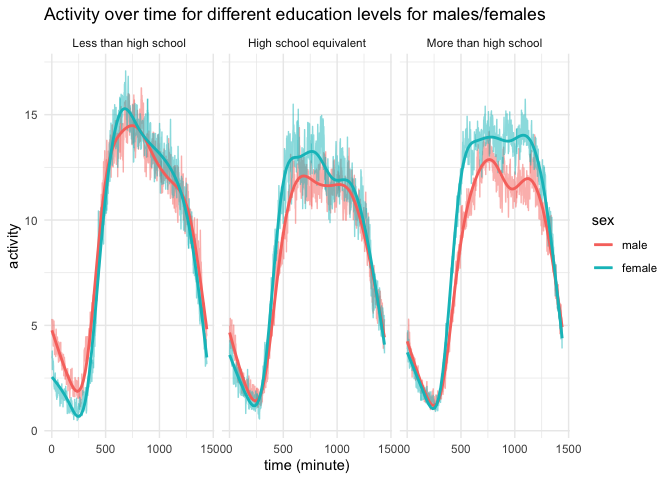
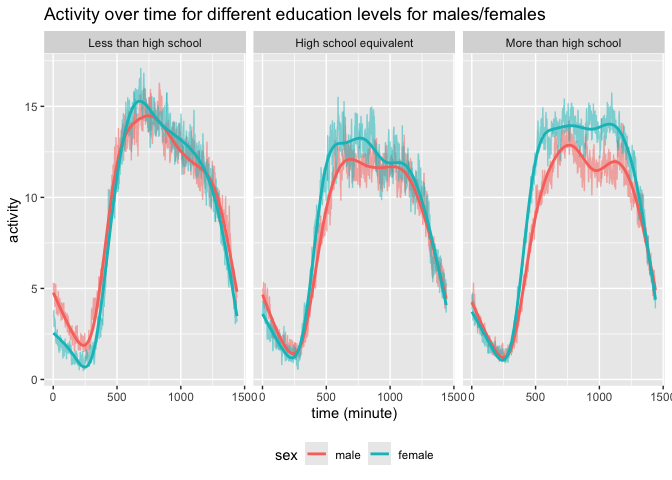
partial problem 2 + problem3

diff --git a/p8105_hw3_jl6521.md b/p8105_hw3_jl6521.md
@@ -5,6 +5,8 @@ Jiayi
 
 ## Problem 1
 
+1.  data cleaning
+
 ``` r
 data("ny_noaa")
 size = nrow(ny_noaa)
@@ -18,8 +20,11 @@ weather stations around the world with 7 daily variables. They are ids,
 maximum and minimum temperature, total daily precipitation, snowfall,
 and snow depth.
 
-\*and indicating the extent to which missing data is an issue. \##
-Problem 2
+\*and indicating the extent to which missing data is an issue.
+
+## Problem 2
+
+1.  Table cleaning and binding
 
 ``` r
 acc_data = read_csv("./data/nhanes_accel.csv",
@@ -67,6 +72,9 @@ merged_mims = inner_join(demo_data,acc_data, by = "seqn") %>%
                     "More than high school")))
 ```
 
+2.  Table for education and number of men and women in each education
+    category
+
 ``` r
 education_table = merged_mims %>% 
   group_by(education,sex) %>% 
@@ -94,9 +102,11 @@ education_table %>%
 
 Number of Men and Women by Education Category
 
+3.  Age distribution visualization
+
 ``` r
-education_visualization = ggplot(merged_mims,aes(x= education, y = age, color = sex)) + 
-  geom_boxplot(alpha = 0.5) + 
+education_visualization = ggplot(merged_mims,aes(x= education, y = age, fill = sex)) + 
+  geom_boxplot() + 
   labs(
     title = "Age Distribution by Education and Sex",
     x = "Education Level",
@@ -107,13 +117,16 @@ education_visualization = ggplot(merged_mims,aes(x= education, y = age, color = 
 print(education_visualization)
 ```
 
-![](p8105_hw3_jl6521_files/figure-gfm/table%20+%20visualization-1.png)<!-- -->
+![](p8105_hw3_jl6521_files/figure-gfm/age%20visualization-1.png)<!-- -->
+
 Comment: From the plot, we can see that the age of the people with more
 than high school degree is usually lower than the other two education
 levels. The age of males and females are similar for both less than high
 school group and more than high school group, but not the high school
 equivalent group. In the high school equivalent group, the age of
 females is higher htan the males.
+
+4.  Total activity against age for education levels
 
 ``` r
 agg_data =
@@ -140,18 +153,19 @@ print(agg_visualization)
     ## `geom_smooth()` using method = 'loess' and formula = 'y ~ x'
 
 ![](p8105_hw3_jl6521_files/figure-gfm/aggregate%20activity-1.png)<!-- -->
-Comment: \* For the less than high school group, the total activity of
+Comment: For the less than high school group, the total activity of
 males and females decrease as age increase, except for a peak around age
 60 when the total activities of two group increase from 45 to 60. Before
 40 years old, the total activity of females are larger than of males,
 but after 40 years old, total activities for males are larger than
-females. \* For the high school equivalent group, the total activity
+females. For the high school equivalent group, the total activity
 increase at first when age is small and then decreases as females and
 male get older. For females, there’s an small increase again at later
 age but not for males. Generally females have higher total activity than
-males except for the initial time. \* For the more than high school
-group, the total activity of females is larger than the males all the
-time.
+males except for the initial time. For the more than high school group,
+the total activity of females is larger than the males all the time.
+
+5.  Three-panels plot for time courses for each education level
 
 ``` r
 time_plot = merged_mims %>% 
@@ -161,7 +175,7 @@ time_plot = merged_mims %>%
     values_to = "activity"
   ) %>% 
   group_by(education, sex, time) %>% 
-  summarize(mean_activity = mean(activity, na.rm = TRUE)) %>%
+  summarize(mean_activity = mean(activity, na.rm = TRUE),.groups = 'drop') %>%
   mutate(time = as.numeric(gsub("min", "", time))) %>%
   ggplot(aes(x=time,y=mean_activity,color = sex))+
   geom_line(alpha = 0.5) +
@@ -172,40 +186,71 @@ time_plot = merged_mims %>%
     x = "time (minute)",
     y = "activity"
   ) +
-  theme_minimal()
-```
-
-    ## `summarise()` has grouped output by 'education', 'sex'. You can override using
-    ## the `.groups` argument.
-
-``` r
+  theme(legend.position = "bottom")
 print(time_plot)
 ```
 
     ## `geom_smooth()` using method = 'gam' and formula = 'y ~ s(x, bs = "cs")'
 
 ![](p8105_hw3_jl6521_files/figure-gfm/unnamed-chunk-1-1.png)<!-- -->
+Comment: Three panel graphs have similar trends overall where they all
+decrease at first and then increase starting from 250 minutes (around
+4am). For the group with less than high school education, people’s
+average activity peaks at similar time (750 min) for both females and
+males.
+
+For the group with high school equivalent degree, most of the time, the
+mean time of activity of females are larger than males. For males, the
+time plot is relatively stable then females over the period of 750 min
+to 1125 min.
+
+For the group with more than high school degree, females have higher and
+more stable activity during the 500 min to 1125 min while males activity
+plot fluctuates a lot during that time.
 
 ## Problem 3
+
+1.  Data import and cleaning
 
 ``` r
 jan20 = read_csv("./data/citibike/Jan 2020 Citi.csv",
                     na = c("NA", ".", ""), show_col_types = FALSE)%>% 
-  janitor::clean_names()
+  janitor::clean_names() %>% 
+  mutate(
+    month = "Janurary",
+    year = "2020"
+  )
 jan24 = read_csv("./data/citibike/Jan 2024 Citi.csv",
                     na = c("NA", ".", ""),show_col_types = FALSE)%>% 
-  janitor::clean_names()
+  janitor::clean_names() %>% 
+  mutate(
+    month = "Janurary",
+    year = "2024"
+  )
 july20 = read_csv("./data/citibike/July 2020 Citi.csv",
                     na = c("NA", ".", ""),show_col_types = FALSE)%>% 
-  janitor::clean_names()
+  janitor::clean_names()%>% 
+  mutate(
+    month = "July",
+    year = "2020"
+  )
 july24 = read_csv("./data/citibike/July 2024 Citi.csv",
                     na = c("NA", ".", ""),show_col_types = FALSE)%>% 
-  janitor::clean_names()
+  janitor::clean_names()%>% 
+  mutate(
+    month = "July",
+    year = "2024"
+  )
+
+df_total = rbind(jan20,jan24,july20,july24)
 ```
 
-Description: the dataset records the ride ID, ride type, the day of the
-ride, duration of the ride, start and end station time, and also if it’s
-citi bike member or casual riders.
+Description: the full dataset records the ride ID, ride type, the day of
+the week, the month and the year of the ride, duration of the ride,
+start and end station time, and also if it’s citi bike member or casual
+riders.
+
+2.  Table for total number of rides for causal and member riders
 
 ``` r
 jan20_new = jan20 %>% 
@@ -227,18 +272,91 @@ july24_new = july24 %>%
 full_table = jan20_new %>% 
   left_join(jan24_new, by = "member_casual") %>% 
   left_join(july20_new, by = "member_casual") %>%
-  left_join(july24_new, by = "member_casual") %>%   knitr::kable(
+  left_join(july24_new, by = "member_casual") %>% 
+  knitr::kable(
   caption = "Total number of rides at each time",
-  cols.names = c("Member or casual", "Janurary 2020", "Janurary 2024", "July 2020", "July 2024")
+  col.names = c("Member or casual", "Janurary 2020", "Janurary 2024", "July 2020", "July 2024")
   )
-print(full_table)
 ```
 
-    ## 
-    ## 
-    ## Table: Total number of rides at each time
-    ## 
-    ## |member_casual | Janurary2020| Janurary2024| July2020| July2024|
-    ## |:-------------|------------:|------------:|--------:|--------:|
-    ## |casual        |          984|         2108|     5637|    10894|
-    ## |member        |        11436|        16753|    15411|    36262|
+Comment: from the table, we can see that as time passes, there are more
+rides for both casual riders and members. The number of member is always
+larger than the number of casual riders all the time.
+
+3.  Top 5 most popular starting stations
+
+``` r
+july24 %>%
+    group_by(start_station_name) %>%
+    summarize(num_rides = n()) %>% 
+  arrange(desc(num_rides)) %>% 
+  slice_head(n = 5) %>% 
+  knitr::kable(
+    caption = "Top 5 Most Popular Starting Stations",
+    col.names = c("start station","total rides")
+    )
+```
+
+| start station            | total rides |
+|:-------------------------|------------:|
+| Pier 61 at Chelsea Piers |         163 |
+| University Pl & E 14 St  |         155 |
+| W 21 St & 6 Ave          |         152 |
+| West St & Chambers St    |         150 |
+| W 31 St & 7 Ave          |         146 |
+
+Top 5 Most Popular Starting Stations
+
+4.  Effects of time on median ride duration
+
+``` r
+df_median = df_total %>% 
+  mutate(
+    weekdays = factor(weekdays,
+                      levels = c("Monday", "Tuesday", "Wednesday", "Thursday", "Friday", "Saturday","Sunday"))
+  ) %>% 
+  group_by(weekdays, month, year) %>% 
+  summarize(
+    median_dur = median(duration))
+```
+
+    ## `summarise()` has grouped output by 'weekdays', 'month'. You can override using
+    ## the `.groups` argument.
+
+``` r
+ggplot(df_median,aes(x = weekdays, y = median_dur, color = interaction(month, year))) + 
+  geom_line(aes(group = interaction(month, year)))+
+  facet_grid(month ~ year) + 
+  theme_minimal()+
+  labs(title = "Median Ride Duration by Day of Week, Month, and Year",
+       x = "Day of the Week", y = "Median Duration") +
+  theme(legend.position = "bottom")
+```
+
+![](p8105_hw3_jl6521_files/figure-gfm/3-3%20effects%20of%20day-1.png)<!-- -->
+Comment: Comparing across year, the median duration of the rides in 2020
+is larger than the median of those in 2024. Comparing across two months,
+the median duration of July would be larger than Janurary. Comparing
+across weeks, they are roughly the same, but median time for Saturday
+and Sunday is slightly higher.
+
+5.  Impact of month, membership status, and bike type on ride duration
+
+``` r
+bind_24 = rbind(july24,jan24)
+ggplot(bind_24, aes(x = member_casual,y = duration,fill = rideable_type))+ 
+  geom_boxplot()+
+  facet_grid(~month)+ 
+  theme(legend.position = "bottom")+
+  labs(
+    title = "Distribution of Ride Duration",
+    x = "Membership Status",
+    y = "Duration"
+  )
+```
+
+![](p8105_hw3_jl6521_files/figure-gfm/factor%20impact%20ducation-1.png)<!-- -->
+Comment: from the graph, we can see that there are lots of outliers with
+high duration riding time. The distribution of the duration time for
+casual riders are wider than the members, indicating that the members
+have a more fixed habit of riding.
